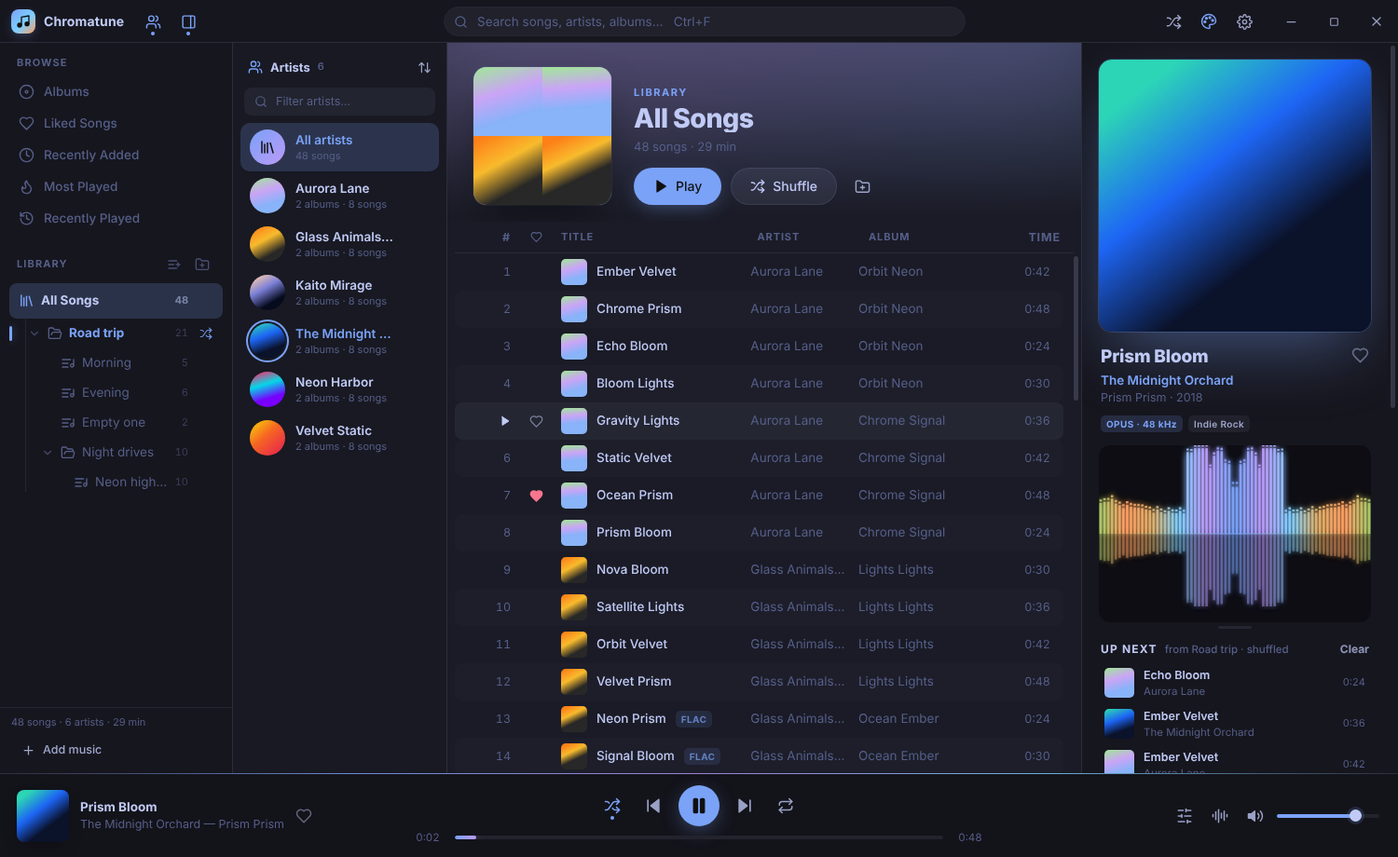
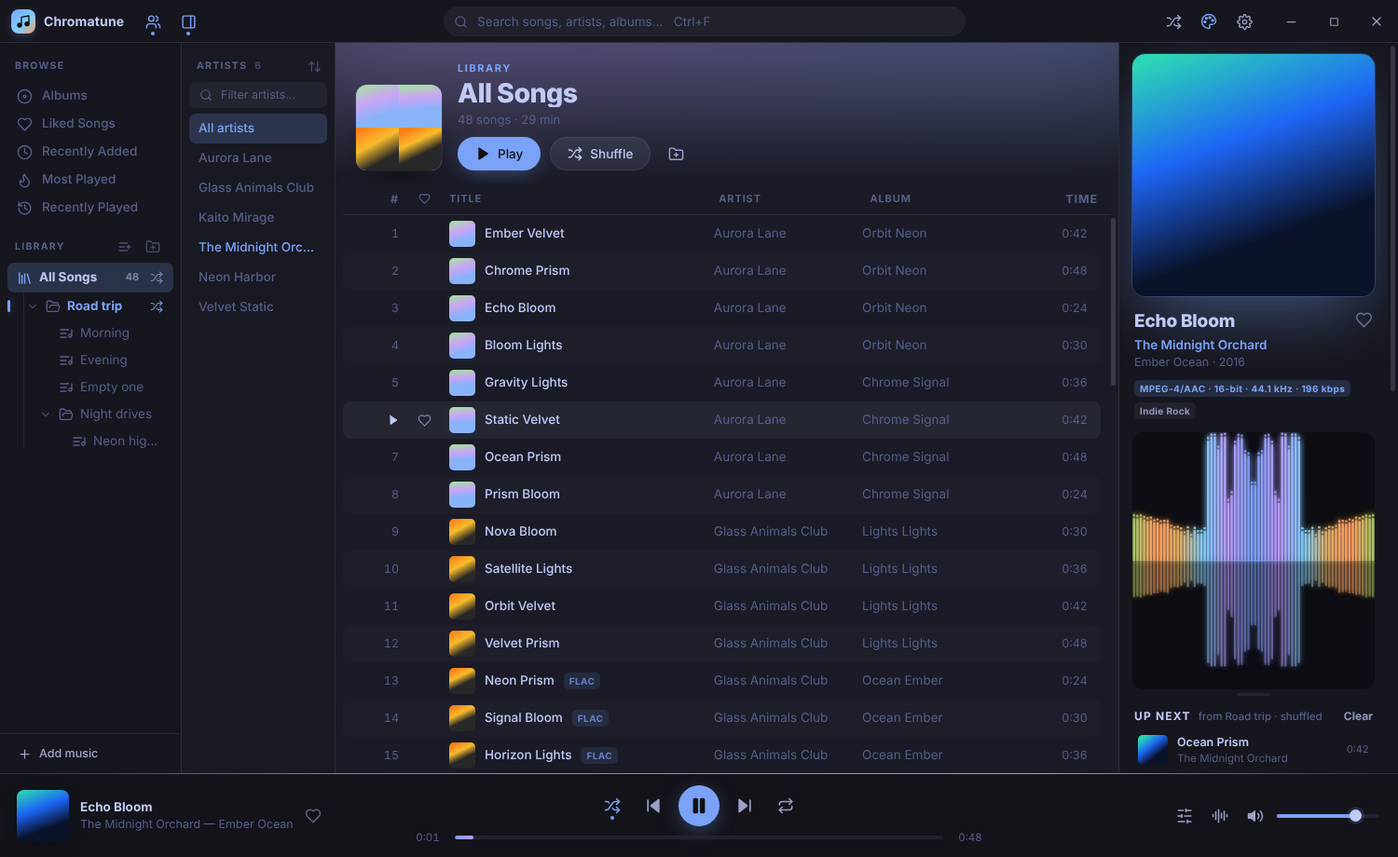
Polish layout: minimal artists list, auto-scaling panels, bigger visualizer and EQ
- Artists panel shows names only; artist pages are unchanged
- Sidebar, artists and now-playing widths scale with the window so the
  song list stays the largest area; double-click a divider to reset
- Slimmer library sidebar: counts and shuffle appear only when relevant
- Compact, proportional view header; larger default visualizer
- Larger equalizer sliders (and fix sliders being squeezed)

Claude-Session: https://claude.ai/code/session_01PB7GDo3FiukJN8m9ZN9jKg

diff --git a/src/renderer/styles.css b/src/renderer/styles.css
@@ -1,8 +1,10 @@
 /* Chromatune — every colour below comes from theme tokens (see js/themes.js). */
 :root {
-  --sidebar-w: 250px;
-  --artists-w: 230px;
-  --nowplaying-w: 340px;
+  /* Side panels scale with the window; the song list always gets the remaining (largest) share. */
+  --sidebar-w: clamp(184px, 13vw, 232px);
+  --artists-w: clamp(150px, 11vw, 200px);
+  --nowplaying-w: clamp(272px, 20vw, 350px);
+  --panel-pad: 12px;
   --titlebar-h: 46px;
   --player-h: 90px;
   --radius: 10px;
@@ -78,7 +80,7 @@ body.resizing * { pointer-events: none; }
 .btn { display: inline-flex; align-items: center; gap: 8px; height: 34px; padding: 0 14px; border-radius: 9px; background: color-mix(in srgb, currentColor 9%, transparent); border: 1px solid color-mix(in srgb, currentColor 10%, transparent); font-weight: 550; transition: background .15s, transform .1s, box-shadow .15s; white-space: nowrap; }
 .btn:hover { background: color-mix(in srgb, currentColor 15%, transparent); }
 .btn:active { transform: scale(.97); }
-.btn.big { height: 40px; padding: 0 20px; border-radius: 999px; font-size: 14px; }
+.btn.big { height: 36px; padding: 0 18px; border-radius: 999px; font-size: 13.5px; }
 .btn.sm { height: 30px; padding: 0 10px; font-size: 12.5px; }
 .btn.ghost { background: transparent; border-color: transparent; opacity: .8; }
 .btn.ghost:hover { opacity: 1; background: color-mix(in srgb, currentColor 9%, transparent); }
@@ -129,26 +131,30 @@ body.resizing * { pointer-events: none; }
 @keyframes spin { to { transform: rotate(360deg); } }
 
 /* ---------- sidebar ---------- */
-.sb-section { padding: 10px 10px 4px; }
+.sb-section { padding: var(--panel-pad) 8px 2px; }
 .sb-section.grow { flex: 1; min-height: 0; display: flex; flex-direction: column; padding-bottom: 0; }
-.sb-title { display: flex; align-items: center; justify-content: space-between; padding: 4px 8px 6px; font-size: 11px; font-weight: 700; letter-spacing: .1em; text-transform: uppercase; color: var(--sidebar-muted); }
+.sb-title, .panel-head { display: flex; align-items: center; justify-content: space-between; height: 26px; padding: 0 8px; margin-bottom: 4px; font-size: 10.5px; font-weight: 700; letter-spacing: .12em; text-transform: uppercase; color: var(--sidebar-muted); }
 .sb-actions { display: flex; gap: 2px; }
-.sb-item, .tree-row { display: flex; align-items: center; gap: 10px; height: 34px; padding: 0 10px; border-radius: 8px; cursor: pointer; color: var(--sidebar-muted); transition: background .12s, color .12s; position: relative; }
+.sb-item, .tree-row { display: flex; align-items: center; gap: 10px; height: 30px; padding: 0 10px; border-radius: 7px; cursor: pointer; color: var(--sidebar-muted); transition: background .12s, color .12s; position: relative; }
 .sb-item:hover, .tree-row:hover { background: var(--sidebar-hover); color: var(--sidebar-fg); }
 .sb-item.active, .tree-row.active { background: var(--sidebar-active); color: var(--sidebar-fg); }
 .sb-item.active .ic, .tree-row.active .tr-ic { color: var(--sidebar-accent); }
 .sb-label { flex: 1; white-space: nowrap; overflow: hidden; text-overflow: ellipsis; font-weight: 520; }
 .tree { flex: 1; overflow-y: auto; padding: 0 0 12px; }
-.tree-row { height: 32px; gap: 7px; }
-.tree-row.root { height: 38px; padding-left: 10px; font-weight: 650; color: var(--sidebar-fg); }
+.tree-row { height: 29px; gap: 7px; }
+.tree-row.root { height: 32px; padding-left: 10px; font-weight: 650; color: var(--sidebar-fg); }
 .tree-row.root .tr-ic { color: var(--sidebar-accent); }
 .tr-chev { width: 14px; display: flex; justify-content: center; opacity: .7; flex: none; }
 .tr-chev:hover { opacity: 1; color: var(--sidebar-accent); }
 .tr-ic { display: flex; flex: none; }
 .tr-name { flex: 1; min-width: 0; white-space: nowrap; overflow: hidden; text-overflow: ellipsis; }
-.tr-count { font-size: 11px; opacity: .55; font-variant-numeric: tabular-nums; }
-.tr-shuffle { width: 24px; height: 24px; border-radius: 6px; display: flex; align-items: center; justify-content: center; opacity: 0; flex: none; transition: opacity .12s, background .12s, color .12s; margin-right: -4px; }
+/* Counts and shuffle only take room when relevant, so names get the full width. */
+.tr-count { display: none; font-size: 11px; opacity: .55; font-variant-numeric: tabular-nums; }
+.tree-row.active .tr-count, .tree-row.root .tr-count { display: block; }
+.tr-shuffle { width: 24px; height: 24px; border-radius: 6px; display: none; align-items: center; justify-content: center; opacity: 0; flex: none; transition: opacity .12s, background .12s, color .12s; margin-right: -4px; }
+.tree-row:hover .tr-shuffle, .tree-row.playing .tr-shuffle, .tree-row.root .tr-shuffle { display: flex; }
 .tree-row:hover .tr-shuffle { opacity: .75; }
+.tree-row.root .tr-shuffle { opacity: .55; }
 .tr-shuffle:hover { opacity: 1 !important; background: var(--accent); color: var(--accent-fg); }
 .tree-row.playing .tr-name { color: var(--sidebar-accent); font-weight: 650; }
 .tree-row.playing .tr-shuffle { opacity: .9; color: var(--sidebar-accent); }
@@ -156,34 +162,36 @@ body.resizing * { pointer-events: none; }
 .tree-children { position: relative; --depth: 0; }
 .tree-children::before { content: ''; position: absolute; left: calc(var(--depth) * 14px + 17px); top: 0; bottom: 6px; width: 1px; background: var(--sidebar-line); }
 .root-children::before { left: 17px; }
-.tree-hint, .tree-empty { font-size: 11.5px; color: var(--sidebar-muted); opacity: .8; padding: 8px 10px 8px 32px; line-height: 1.5; }
+.tree-hint, .tree-empty { font-size: 11.5px; color: var(--sidebar-muted); opacity: .7; padding: 5px 10px 5px 34px; }
 .tree-hint .ic { display: inline-block; vertical-align: -2px; }
 .rename-input { flex: 1; min-width: 0; height: 24px; border-radius: 6px; border: 1px solid var(--accent); background: var(--sidebar-bg); color: var(--sidebar-fg); padding: 0 6px; outline: none; box-shadow: 0 0 0 3px var(--accent-soft); }
 .drop-before { box-shadow: inset 0 2px 0 var(--accent); }
 .drop-after { box-shadow: inset 0 -2px 0 var(--accent); }
 .drop-inside, .drop-target { background: var(--sidebar-active) !important; outline: 1.5px dashed var(--accent); outline-offset: -2px; color: var(--sidebar-fg) !important; }
-.sb-footer { border-top: 1px solid var(--sidebar-line); padding: 8px 12px 10px; display: flex; flex-direction: column; gap: 6px; }
+.sb-footer { border-top: 1px solid var(--sidebar-line); padding: 6px 8px; display: flex; }
 .sb-stats { font-size: 11px; color: var(--sidebar-muted); }
 .sb-footer .btn { align-self: flex-start; color: var(--sidebar-fg); }
 
 /* ---------- artists panel ---------- */
-.panel-head { display: flex; align-items: center; justify-content: space-between; padding: 12px 10px 6px 16px; }
-.panel-title { display: flex; align-items: center; gap: 8px; font-weight: 700; font-size: 13px; }
-.panel-title > span:first-child { color: var(--artists-accent); display: flex; }
-.panel-count { font-size: 11px; color: var(--artists-muted); font-weight: 600; }
-.panel-search-wrap { margin: 2px 12px 8px; display: flex; align-items: center; gap: 7px; height: 30px; padding: 0 10px; border-radius: 8px; background: var(--artists-hover); color: var(--artists-muted); border: 1px solid transparent; }
+.panel-head { margin: var(--panel-pad) 8px 4px; padding-right: 0; color: var(--artists-muted); }
+.panel-title { display: flex; align-items: center; gap: 8px; }
+.panel-title > span:first-child { display: none; }
+.panel-count { font-weight: 600; opacity: .7; letter-spacing: 0; }
+.panel-search-wrap { margin: 0 8px 6px; display: flex; align-items: center; gap: 7px; height: 28px; padding: 0 10px; border-radius: 7px; background: var(--artists-hover); color: var(--artists-muted); border: 1px solid transparent; }
 .panel-search-wrap:focus-within { border-color: var(--accent); }
 .panel-search { flex: 1; min-width: 0; border: 0; background: none; outline: none; color: var(--artists-fg); font-size: 12.5px; }
 .panel-search::placeholder { color: var(--artists-muted); }
 .artist-list { flex: 1; padding: 0 0 10px; }
-.artist-row { display: flex; align-items: center; gap: 11px; padding: 0 10px; left: 8px !important; right: 8px !important; border-radius: 10px; cursor: pointer; transition: background .12s; }
-.artist-row:hover { background: var(--artists-hover); }
-.artist-row.active { background: var(--artists-active); }
+.artist-row { display: flex; align-items: center; padding: 0 10px; left: 8px !important; right: 8px !important; border-radius: 7px; cursor: pointer; color: var(--artists-muted); transition: background .12s, color .12s; }
+.artist-row:hover { background: var(--artists-hover); color: var(--artists-fg); }
+.artist-row.active { background: var(--artists-active); color: var(--artists-fg); }
+.artist-row.all { font-weight: 650; color: var(--artists-fg); }
+.artist-row.playing .ar-name::after { content: ''; display: inline-block; width: 5px; height: 5px; margin-left: 7px; vertical-align: 2px; border-radius: 50%; background: var(--accent); box-shadow: 0 0 6px var(--accent-glow); }
 .ar-avatar { width: 38px; height: 38px; border-radius: 50%; object-fit: cover; flex: none; background: var(--artists-line); }
 .ar-avatar.ph { display: grid; place-items: center; font-weight: 750; font-size: 13px; color: var(--c, var(--accent)); background: color-mix(in srgb, var(--c, var(--accent)) 18%, transparent); }
 .ar-avatar.all { display: grid; place-items: center; color: var(--accent-fg); background: linear-gradient(135deg, var(--viz1), var(--viz2)); }
 .ar-text { flex: 1; min-width: 0; display: flex; flex-direction: column; }
-.ar-name { white-space: nowrap; overflow: hidden; text-overflow: ellipsis; font-weight: 580; }
+.ar-name { min-width: 0; white-space: nowrap; overflow: hidden; text-overflow: ellipsis; font-weight: 520; }
 .ar-meta { font-size: 11px; color: var(--artists-muted); white-space: nowrap; overflow: hidden; text-overflow: ellipsis; }
 .artist-row.active .ar-name, .artist-row.playing .ar-name { color: var(--artists-accent); }
 .artist-row.playing .ar-avatar { box-shadow: 0 0 0 2px var(--artists-bg), 0 0 0 4px var(--accent); }
@@ -196,24 +204,24 @@ body.resizing * { pointer-events: none; }
 .vrow { position: absolute; top: 0; left: 0; right: 0; }
 
 /* ---------- main: view header ---------- */
-.view-header { position: relative; padding: 26px 28px 18px; flex: none; overflow: hidden; background: var(--header-bg); color: var(--header-fg); }
+.view-header { position: relative; padding: clamp(14px, 2.4cqi, 24px) clamp(16px, 2.6cqi, 28px) 14px; flex: none; overflow: hidden; background: var(--header-bg); color: var(--header-fg); }
 .view-header.slim { padding-bottom: 8px; }
 .vh-bg { position: absolute; inset: -60px; background-size: cover; background-position: center; filter: blur(70px) saturate(1.5); opacity: .32; pointer-events: none; }
 [data-scheme="light"] .vh-bg { opacity: .22; }
 .view-header::after { content: ''; position: absolute; inset: 0; background: linear-gradient(180deg, color-mix(in srgb, var(--accent) 10%, transparent), var(--header-bg) 96%); pointer-events: none; }
-.vh-row { position: relative; z-index: 1; display: flex; align-items: flex-end; gap: 24px; }
+.vh-row { position: relative; z-index: 1; display: flex; align-items: flex-end; gap: clamp(14px, 2cqi, 22px); }
 .view-header > *:not(.vh-bg) { position: relative; z-index: 1; }
-.mosaic { width: 148px; height: 148px; border-radius: 14px; overflow: hidden; flex: none; display: grid; place-items: center; color: var(--accent-fg); background: linear-gradient(135deg, var(--viz1), var(--viz2) 50%, var(--viz3)); box-shadow: 0 18px 44px -14px var(--shadow), 0 0 0 1px color-mix(in srgb, var(--fg) 8%, transparent); }
+.mosaic { width: clamp(92px, 11cqi, 132px); height: clamp(92px, 11cqi, 132px); border-radius: 12px; overflow: hidden; flex: none; display: grid; place-items: center; color: var(--accent-fg); background: linear-gradient(135deg, var(--viz1), var(--viz2) 50%, var(--viz3)); box-shadow: 0 18px 44px -14px var(--shadow), 0 0 0 1px color-mix(in srgb, var(--fg) 8%, transparent); }
 .mosaic.round { border-radius: 50%; }
 .mosaic img { width: 100%; height: 100%; object-fit: cover; }
 .mosaic.n4 { grid-template-columns: 1fr 1fr; grid-template-rows: 1fr 1fr; }
 .vh-text { min-width: 0; flex: 1; }
 .vh-kicker { font-size: 11px; font-weight: 750; letter-spacing: .14em; text-transform: uppercase; color: var(--header-accent); }
-.vh-title { margin: 4px 0 6px; font-size: clamp(26px, 4.2cqi, 46px); line-height: 1.05; font-weight: 800; letter-spacing: -.02em; white-space: nowrap; overflow: hidden; text-overflow: ellipsis; }
+.vh-title { margin: 3px 0 4px; font-size: clamp(22px, 3.4cqi, 38px); line-height: 1.05; font-weight: 800; letter-spacing: -.02em; white-space: nowrap; overflow: hidden; text-overflow: ellipsis; }
 body[data-font="mono"] .vh-title { letter-spacing: -.04em; }
 .vh-sub { color: var(--header-muted); font-size: 13px; }
 .vh-sub .link { color: var(--header-fg); font-weight: 600; }
-.view-actions { display: flex; align-items: center; gap: 10px; margin-top: 14px; }
+.view-actions { display: flex; align-items: center; gap: 10px; margin-top: 10px; }
 .chips { display: flex; flex-wrap: wrap; gap: 8px; margin-top: 16px; }
 .chip { display: inline-flex; align-items: center; gap: 7px; height: 30px; padding: 0 12px; border-radius: 999px; background: var(--main-hover); border: 1px solid var(--main-line); font-size: 12.5px; }
 .chip:hover { border-color: var(--accent); color: var(--accent); }
@@ -294,8 +302,8 @@ body[data-density="compact"] .thumb { width: 22px; height: 22px; border-radius: 
 .ac-meta { font-size: 12px; color: var(--main-muted); white-space: nowrap; overflow: hidden; text-overflow: ellipsis; }
 
 /* ---------- now playing ---------- */
-.np-scroll { flex: 1; overflow-y: auto; padding: 18px 18px 10px; display: flex; flex-direction: column; min-height: 0; }
-.np-cover { aspect-ratio: 1; width: 100%; border-radius: 14px; overflow: hidden; flex: none; box-shadow: 0 24px 60px -18px var(--accent-glow), 0 0 0 1px color-mix(in srgb, var(--fg) 6%, transparent); transition: box-shadow .4s, transform .4s var(--ease); }
+.np-scroll { flex: 1; overflow-y: auto; padding: var(--panel-pad) 14px 10px; display: flex; flex-direction: column; min-height: 0; }
+.np-cover { aspect-ratio: 1; width: 100%; max-width: min(300px, 34vh); align-self: center; border-radius: 14px; overflow: hidden; flex: none; box-shadow: 0 24px 60px -18px var(--accent-glow), 0 0 0 1px color-mix(in srgb, var(--fg) 6%, transparent); transition: box-shadow .4s, transform .4s var(--ease); }
 #nowplaying.is-playing .np-cover { animation: breathe 6s ease-in-out infinite; }
 @keyframes breathe { 50% { box-shadow: 0 28px 70px -14px var(--accent-glow), 0 0 0 1px color-mix(in srgb, var(--accent) 25%, transparent); } }
 .np-cover img { width: 100%; height: 100%; object-fit: cover; }
@@ -306,7 +314,7 @@ body[data-density="compact"] .thumb { width: 22px; height: 22px; border-radius: 
 .np-artist { display: block; margin-top: 4px; font-weight: 600; color: var(--nowplaying-accent); white-space: nowrap; overflow: hidden; text-overflow: ellipsis; }
 .np-album { display: block; font-size: 12.5px; color: var(--nowplaying-muted); white-space: nowrap; overflow: hidden; text-overflow: ellipsis; }
 .np-tags { display: flex; flex-wrap: wrap; gap: 6px; margin-top: 10px; }
-.np-viz-wrap { position: relative; border-radius: 12px; overflow: hidden; background: var(--vizbg-bg); flex: none; box-shadow: inset 0 0 0 1px var(--vizbg-line); }
+.np-viz-wrap { position: relative; height: clamp(200px, 30vh, 320px); border-radius: 12px; overflow: hidden; background: var(--vizbg-bg); flex: none; box-shadow: inset 0 0 0 1px var(--vizbg-line); }
 .np-viz { width: 100%; height: 100%; display: block; }
 .np-viz-resize { height: 10px; cursor: row-resize; flex: none; position: relative; }
 .np-viz-resize::after { content: ''; position: absolute; left: 50%; top: 4px; width: 36px; height: 3px; margin-left: -18px; border-radius: 3px; background: var(--nowplaying-line); transition: background .15s; }
@@ -477,15 +485,15 @@ body.dragging-files #drop-hint { opacity: 1; }
 kbd { min-width: 64px; text-align: center; font-family: var(--font-mono); font-size: 11px; padding: 3px 7px; border-radius: 6px; background: var(--input-bg); border: 1px solid var(--surface-line); border-bottom-width: 2px; }
 
 /* equalizer */
-.modal.eq-modal { width: min(640px, 94vw); }
+.modal.eq-modal { width: min(760px, 94vw); }
 .eq-top { display: flex; align-items: center; justify-content: space-between; margin-bottom: 14px; }
 .eq-bands { display: flex; justify-content: space-between; gap: 4px; padding: 14px 10px; border-radius: 14px; background: var(--input-bg); }
-.eq-band { display: flex; flex-direction: column; align-items: center; gap: 6px; width: 40px; }
+.eq-band { display: flex; flex-direction: column; align-items: center; gap: 8px; width: 48px; }
 .eq-divider { width: 1px; background: var(--surface-line); }
-.eq-val { font-size: 10.5px; font-family: var(--font-mono); color: var(--surface-accent); height: 14px; }
-.eq-label { font-size: 11px; color: var(--surface-muted); font-weight: 600; }
-.eq-slot { height: 170px; width: 26px; display: flex; align-items: center; justify-content: center; }
-.eq-slider { -webkit-appearance: none; appearance: none; width: 170px; height: 5px; transform: rotate(-90deg); border-radius: 5px; background: linear-gradient(90deg, var(--accent) var(--p, 50%), var(--surface-line) var(--p, 50%)); cursor: pointer; }
+.eq-val { font-size: 11.5px; font-family: var(--font-mono); color: var(--surface-accent); height: 14px; }
+.eq-label { font-size: 12px; color: var(--surface-muted); font-weight: 600; }
+.eq-slot { height: 230px; width: 28px; display: flex; align-items: center; justify-content: center; }
+.eq-slider { -webkit-appearance: none; appearance: none; flex: none; width: 230px; height: 6px; margin: 0; transform: rotate(-90deg); border-radius: 5px; background: linear-gradient(90deg, var(--accent) var(--p, 50%), color-mix(in srgb, var(--surface-fg) 16%, transparent) var(--p, 50%)); cursor: pointer; }
 .eq-slider::-webkit-slider-thumb { -webkit-appearance: none; width: 16px; height: 16px; border-radius: 50%; background: var(--surface-fg); box-shadow: 0 0 0 4px var(--accent-soft), 0 2px 6px var(--shadow); }
 
 /* toasts */

diff --git a/src/renderer/js/artists.js b/src/renderer/js/artists.js
@@ -1,9 +1,9 @@
 // Artists panel: every artist in the library, searchable and sortable; click to open, double-click to play.
 import { state, bus, setView, setSetting } from './store.js';
 import { queue } from './player.js';
-import { playView, shuffleLibrary } from './actions.js';
+import { playView } from './actions.js';
 import { VirtualList } from './virtuallist.js';
-import { h, $, esc, plural, coverUrl, collator } from './util.js';
+import { h, $, esc, plural, collator } from './util.js';
 import { icon } from './icons.js';
 import { showMenu, dragBadge } from './ui.js';
 
@@ -29,11 +29,10 @@ export function initArtists() {
     sortBtn);
   listEl = h('div.artist-list');
   root.append(head, h('div.panel-search-wrap', { html: icon('search', 14) }, input), listEl);
-  vlist = new VirtualList(listEl, { rowHeight: 52, render: renderRow });
+  vlist = new VirtualList(listEl, { rowHeight: 32, render: renderRow });
   listEl.addEventListener('click', (e) => {
     const row = e.target.closest('.vrow');
     if (!row) return;
-    if (e.target.closest('.ar-play')) { const a = artists[+row.dataset.index]; return a ? playView({ type: 'artist', id: a.name }, { shuffle: true }) : shuffleLibrary(); }
     const a = artists[+row.dataset.index];
     setView(a ? { type: 'artist', id: a.name } : { type: 'all' });
   });
@@ -82,22 +81,13 @@ function refresh() {
   vlist.setCount(artists.length);
 }
 
-const initials = (n) => n.replace(/^the\s+/i, '').split(/\s+/).slice(0, 2).map((w) => w[0] || '').join('').toUpperCase();
-
+// Names only — the artist page carries the detail.
 function renderRow(i, row) {
   const a = artists[i];
   row.draggable = !!a;
   const playingArtist = queue.track && (queue.track.albumArtist || queue.track.artist);
-  if (!a) {
-    row.className = `vrow artist-row all${state.view.type === 'all' ? ' active' : ''}`;
-    row.innerHTML = `<span class="ar-avatar all">${icon('library', 18)}</span><span class="ar-text"><span class="ar-name">All artists</span><span class="ar-meta">${plural(state.tracks.size, 'song')}</span></span><button class="ar-play" title="Shuffle library">${icon('shuffle', 14)}</button>`;
-    return;
-  }
-  const active = state.view.type === 'artist' && state.view.id === a.name;
-  row.className = `vrow artist-row${active ? ' active' : ''}${playingArtist === a.name ? ' playing' : ''}`;
-  const hue = [...a.name].reduce((s, c) => s + c.charCodeAt(0), 0) % 6 + 1;
-  const avatar = a.cover
-    ? `<img class="ar-avatar" src="${coverUrl(a.cover, true)}" loading="lazy" draggable="false">`
-    : `<span class="ar-avatar ph" style="--c: var(--viz${hue})">${esc(initials(a.name))}</span>`;
-  row.innerHTML = `${avatar}<span class="ar-text"><span class="ar-name">${esc(a.name)}</span><span class="ar-meta">${plural(a.albums.size, 'album')} · ${plural(a.ids.length, 'song')}</span></span><button class="ar-play" title="Shuffle ${esc(a.name)}">${icon('shuffle', 14)}</button>`;
+  const active = a ? state.view.type === 'artist' && state.view.id === a.name : state.view.type === 'all';
+  row.className = `vrow artist-row${a ? '' : ' all'}${active ? ' active' : ''}${a && playingArtist === a.name ? ' playing' : ''}`;
+  row.title = a ? `${a.name} — ${plural(a.albums.size, 'album')}, ${plural(a.ids.length, 'song')}` : '';
+  row.innerHTML = `<span class="ar-name">${esc(a ? a.name : 'All artists')}</span>`;
 }

diff --git a/src/renderer/js/app.js b/src/renderer/js/app.js
@@ -18,6 +18,11 @@ async function boot() {
   state.platform = init.platform;
   state.omarchy = init.omarchy;
   state.settings = { ...DEFAULT_SETTINGS, ...(init.settings || {}) };
+  // Older versions saved fixed panel sizes; switch them to the new auto-scaling layout once.
+  if (init.settings?.themeId && init.settings.layoutVersion !== DEFAULT_SETTINGS.layoutVersion) {
+    for (const k of ['sidebarWidth', 'artistsWidth', 'nowPlayingWidth', 'vizHeight']) state.settings[k] = null;
+    setSetting('layoutVersion', DEFAULT_SETTINGS.layoutVersion);
+  }
   state.playlists = init.playlists || [];
   for (const t of init.tracks) state.tracks.set(t.id, t);
   rebuildIndexes();
@@ -124,12 +129,14 @@ function buildTitlebar() {
 /* ---------- panel resizing ---------- */
 function initResizers() {
   for (const r of document.querySelectorAll('.resizer')) {
+    r.title = 'Drag to resize · double-click to reset';
     r.addEventListener('mousedown', (e) => {
       e.preventDefault();
       const key = r.dataset.for;
       const setting = { sidebar: 'sidebarWidth', artists: 'artistsWidth', nowplaying: 'nowPlayingWidth' }[key];
       const limits = { sidebar: [190, 420], artists: [170, 400], nowplaying: [260, 560] }[key];
-      const startX = e.clientX, start = state.settings[setting];
+      const panel = document.getElementById(key);
+      const startX = e.clientX, start = panel.offsetWidth;
       const dir = key === 'nowplaying' ? -1 : 1;
       document.body.classList.add('resizing');
       const move = (ev) => {
@@ -143,6 +150,12 @@ function initResizers() {
         setSetting(setting, state.settings[setting]);
       };
       addEventListener('mousemove', move); addEventListener('mouseup', up);
+    });
+    // Double-click a divider to go back to automatic sizing.
+    r.addEventListener('dblclick', () => {
+      const setting = { sidebar: 'sidebarWidth', artists: 'artistsWidth', nowplaying: 'nowPlayingWidth' }[r.dataset.for];
+      setSetting(setting, null);
+      applyLook();
     });
   }
 }

diff --git a/src/renderer/js/sidebar.js b/src/renderer/js/sidebar.js
@@ -49,7 +49,7 @@ function render() {
   const kids = h('div.tree-children.root-children', {});
   renderNodes(state.playlists, kids, 1);
   if (!state.playlists.length) {
-    kids.append(h('div.tree-hint', { html: `Create playlists &amp; folders with ${icon('playlistPlus', 13)} ${icon('folderPlus', 13)} — nest them as deep as you like. Each one shuffles on its own.` }));
+    kids.append(h('div.tree-hint', { text: 'No playlists yet' }));
   }
   treeEl.append(kids);
 
@@ -57,8 +57,7 @@ function render() {
 
   const total = [...state.tracks.values()].reduce((s, t) => s + (t.duration || 0), 0);
   const footer = h('div.sb-footer', {},
-    h('div.sb-stats', { text: `${plural(state.tracks.size, 'song')} · ${plural(state.artists.size, 'artist')} · ${fmtLong(total)}` }),
-    h('button.btn.sm.ghost', { html: `${icon('plus', 15)}<span>Add music</span>`, onClick: (e) => {
+    h('button.btn.sm.ghost', { title: `${plural(state.tracks.size, 'song')} · ${plural(state.artists.size, 'artist')} · ${fmtLong(total)}`, html: `${icon('plus', 15)}<span>Add music</span>`, onClick: (e) => {
       const r = e.currentTarget.getBoundingClientRect();
       showMenu(r.left, r.top - 150, [
         { label: 'Add folder…', icon: 'folderPlus', action: addFolders },

diff --git a/src/renderer/js/nowplaying.js b/src/renderer/js/nowplaying.js
@@ -21,8 +21,9 @@ export function initNowPlaying() {
     h('span.grow'),
     h('button.icon-btn.sm', { title: 'Random visualizer', html: icon('dice', 15), onClick: () => setMode(VIZ_MODES[Math.floor(Math.random() * VIZ_MODES.length)].id) }),
     h('button.icon-btn.sm', { title: 'Fullscreen visualizer (V)', html: icon('expand', 15), onClick: () => openFullViz() }));
-  const vizWrap = h('div.np-viz-wrap', { style: { height: `${state.settings.vizHeight}px` } }, vizCanvas, vizBar);
-  const vizResize = h('div.np-viz-resize', { title: 'Drag to resize' });
+  const vizWrap = h('div.np-viz-wrap', { style: state.settings.vizHeight ? { height: `${state.settings.vizHeight}px` } : {} }, vizCanvas, vizBar);
+  const vizResize = h('div.np-viz-resize', { title: 'Drag to resize · double-click to reset' });
+  vizResize.addEventListener('dblclick', () => { vizWrap.style.height = ''; setSetting('vizHeight', null); });
   vizResize.addEventListener('mousedown', (e) => {
     const startY = e.clientY, startH = vizWrap.offsetHeight;
     const move = (ev) => { vizWrap.style.height = `${Math.max(90, Math.min(520, startH + ev.clientY - startY))}px`; };

diff --git a/src/renderer/js/settings.js b/src/renderer/js/settings.js
@@ -96,8 +96,10 @@ export function applyLook() {
   document.body.dataset.density = s.density;
   document.body.classList.toggle('no-artists', !s.showArtists);
   document.body.classList.toggle('no-nowplaying', !s.showNowPlaying);
-  document.documentElement.style.setProperty('--sidebar-w', `${s.sidebarWidth}px`);
-  document.documentElement.style.setProperty('--artists-w', `${s.artistsWidth}px`);
-  document.documentElement.style.setProperty('--nowplaying-w', `${s.nowPlayingWidth}px`);
+  const root = document.documentElement.style;
+  for (const [prop, key] of [['--sidebar-w', 'sidebarWidth'], ['--artists-w', 'artistsWidth'], ['--nowplaying-w', 'nowPlayingWidth']]) {
+    if (s[key]) root.setProperty(prop, `${s[key]}px`);
+    else root.removeProperty(prop);
+  }
 }
 

diff --git a/src/renderer/js/store.js b/src/renderer/js/store.js
@@ -23,10 +23,12 @@ export const DEFAULT_SETTINGS = {
   vizTrails: true,
   showArtists: true,
   showNowPlaying: true,
-  sidebarWidth: 250,
-  artistsWidth: 230,
-  nowPlayingWidth: 340,
-  vizHeight: 190,
+  // null = automatic: panels scale with the window (see :root in styles.css).
+  sidebarWidth: null,
+  artistsWidth: null,
+  nowPlayingWidth: null,
+  vizHeight: null,
+  layoutVersion: 2,
   artistSort: 'name',
   folders: [],
   sort: { key: null, dir: 1 },
